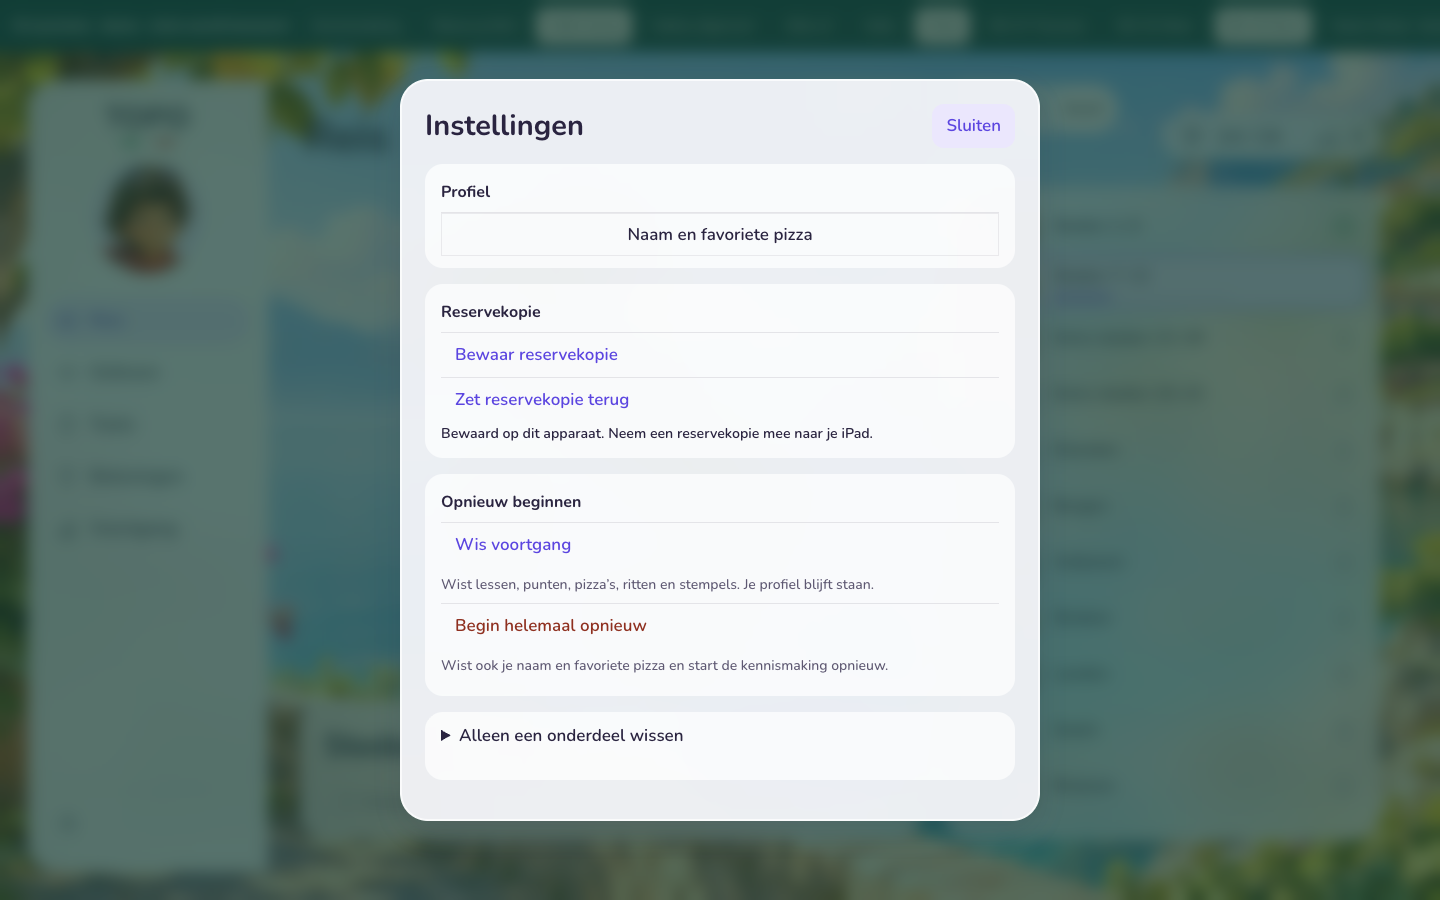
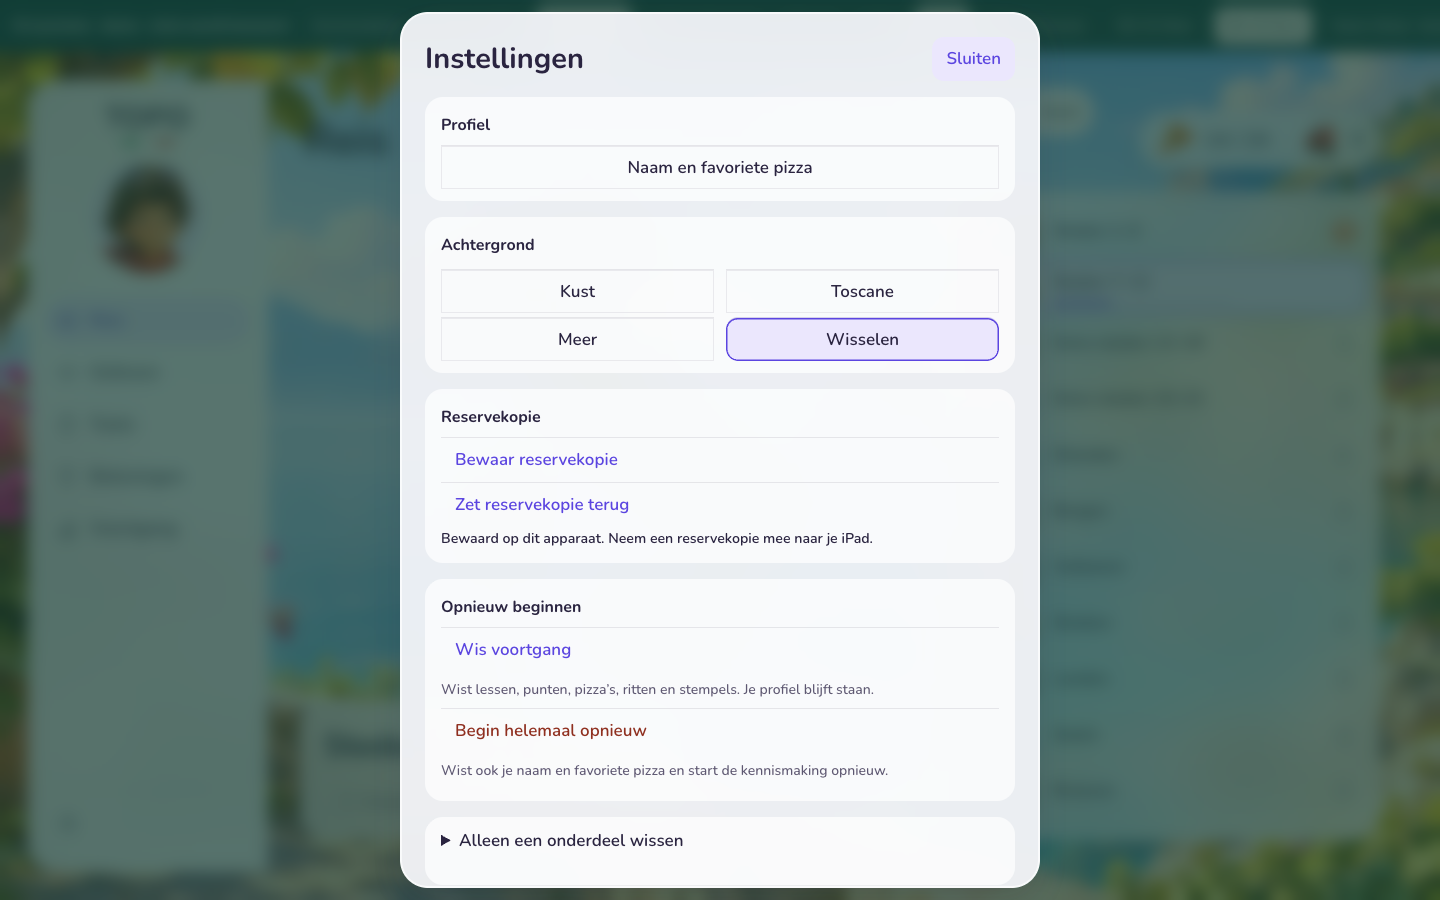
fix(v3): laat achtergronden kiezen en per hoofdstuk wisselen (ronde 3 punt 18)

diff --git a/scripts/v3/reis.js b/scripts/v3/reis.js
@@ -23,6 +23,12 @@
  // Reis map (fase B; chosen in the afwerking 10-11): "eiland" = Italy floating as land, neighbours as soft silhouettes,
  // the sea transparent on the wash. Variant (b), the map in a glass card, is gone.
  ui.kaart='eiland';
+ const BGKEY='topo-v3-background-v1',BACKDROPS={city1:'bg01',city2:'bg03',city3:'bg01',city4:'bg03',islands:'bg03',mountains:'bg02',volcanoes:'bg03',regions:'bg01',countries:'bg02',seas:'bg03',rivers:'bg02'};
+ try{ui.background=localStorage.getItem(BGKEY);}catch{}
+ const background=()=>{const chapter=$('#journeyScreen')?.classList.contains('hidden')?state.route?.active?.chapterId:ui.selected;
+  const key=ui.background==='auto'?(BACKDROPS[chapter]||'bg03'):ui.background||window.TOPO_V3_BG||'bg03';
+  const src=V3ART?.bg?.[key];if(src){document.body.style.setProperty('--v3-pano','url("'+src+'")');document.body.dataset.v3Background=key;}
+ };
  // Chapter scenes {mini, kop}: the 8 #75 scenes (assets/v3/scenes) and Roma, Venezia, Napoli (assets/v3/render);
  // a chapter without a scene keeps its chapter icon. Render assets: background, portrait, icons, VE-01.
  const scenes=window.TOPO_V3_SCENES||{},V3ART=window.TOPO_V3_ART||null;
@@ -309,7 +315,7 @@
   const c=m.chapters.find(x=>x.id===ui.selected);
   // Backdrop: BG-03 (BG-01/BG-02 in the preview), full-bleed behind the window; the V2 panorama only as fallback.
   const pano=V3ART?.bg?.[window.TOPO_V3_BG||'bg03']||V3ART?.bg?.bg03||$('.routeScene img')?.currentSrc||$('.routeScene img')?.src;
-  if(pano&&!document.body.style.getPropertyValue('--v3-pano'))document.body.style.setProperty('--v3-pano','url("'+pano+'")');
+  if(V3ART?.bg)background();else if(pano)document.body.style.setProperty('--v3-pano','url("'+pano+'")');
   root.dataset.view=views[ui.view]?ui.view:'reis';root.dataset.kaart=ui.kaart;
   markNav(root);
   renderTop(m);renderRows(m);renderPanel(m,c);renderSwitch();paintMap(c);renderRewards(m);
@@ -321,6 +327,6 @@
  const base=renderRouteHome;
  renderRouteHome=function(...a){const out=base.apply(this,a);try{render();chrome();}catch(e){console.error('V3 Reis',e);}return out;};
  document.body.classList.add('v3On');
- window.TOPO_V3={render,model,ui,makeSide,markNav,addView,cloneMap,fit,addIsland,icon,make,btn,pic,img,press,v2Card,v2Nav,STAGE,KIND,range,scenes,art:V3ART,nino,root};
+ window.TOPO_V3={background:{refresh:background,get:()=>ui.background||window.TOPO_V3_BG||'bg03',set:key=>{if(!['bg01','bg02','bg03','auto'].includes(key))return;ui.background=key;try{localStorage.setItem(BGKEY,key);}catch{}background();}},render,model,ui,makeSide,markNav,addView,cloneMap,fit,addIsland,icon,make,btn,pic,img,press,v2Card,v2Nav,STAGE,KIND,range,scenes,art:V3ART,nino,root};
  if(!$('#journeyScreen')?.classList.contains('hidden')){render();chrome();}
 })();

diff --git a/scripts/v3/shell.js b/scripts/v3/shell.js
@@ -59,7 +59,11 @@
  if(settings){
   settings.classList.add('v3','v3SettingsSheet');
   const profile=make('section','ninoSettingsGroup');profile.append(make('h3',null,'Profiel'),btn('Naam en favoriete pizza',()=>window.TopoProfile?.open(), 'v3Btn'));
-  settings.querySelector('.ninoSettingsActions')?.prepend(profile);
+  const backdrop=make('section','ninoSettingsGroup v3BackgroundChoices');backdrop.append(make('h3',null,'Achtergrond'));
+  const options=[['bg03','Kust'],['bg01','Toscane'],['bg02','Meer'],['auto','Wisselen']];
+  const mark=()=>backdrop.querySelectorAll('button').forEach(b=>b.setAttribute('aria-pressed',String(b.dataset.background===V.background.get())));
+  for(const [key,label] of options){const b=btn(label,()=>{V.background.set(key);mark();},'v3Btn');b.dataset.background=key;backdrop.append(b);}
+  mark();settings.querySelector('.ninoSettingsActions')?.prepend(profile,backdrop);
  }
  function openSettings(opener){settingsOrigin=opener||document.activeElement;$('.ninoSettingsButton')?.click();}
  $('dialog.ninoSettings')?.addEventListener('close',()=>{const o=settingsOrigin;settingsOrigin=null;if(o?.isConnected&&o.checkVisibility?.()!==false)requestAnimationFrame(()=>o.focus({preventScroll:true}));});

diff --git a/scripts/v3/ronde3.css b/scripts/v3/ronde3.css
@@ -95,3 +95,5 @@ body.v3On .vespaRide[data-phase=ride] .rideNino{left:5%;animation:v3RideOut 1.5s
 @keyframes v3Engine{from{transform:translateY(0) rotate(-.5deg)}to{transform:translateY(-2px) rotate(.5deg)}}
 @keyframes v3RideOut{from{transform:translateX(0)}to{transform:translateX(300%)}}
 @media(prefers-reduced-motion:reduce){body.v3On .vespaRide .rideNino{animation:none!important;transition:none!important}body.v3On .vespaRide .rideArrival{animation:v3Ready .16s ease-out!important}}
+
+.v3SettingsSheet .v3BackgroundChoices{grid-template-columns:1fr 1fr;gap:4px 12px}.v3BackgroundChoices h3{grid-column:1/-1}.v3SettingsSheet [data-background][aria-pressed=true]{background:var(--v3-accent-soft);box-shadow:inset 0 0 0 1.5px var(--v3-accent);border-radius:12px}

diff --git a/scripts/v3/les.js b/scripts/v3/les.js
@@ -40,6 +40,7 @@
  bar.append(group,end);layout.before(bar);
 
  function model(){
+  V.background?.refresh();
   if(state.mode==='exam'){const total=state.examTotal|0;return {type:'exam',kind:'exam',title:'Toets',total,n:Math.min(total,(state.examAnswered|0)+(state.answered?0:1)),done:!!state.examEnded,paused:false,q:state.questionMode};}
   if(FREE.includes(state.mode)){const g=$('#groupSelect');return {type:'free',kind:state.mode==='learn'?'discover':state.mode,title:g?.selectedOptions[0]?.textContent.replace(/ · .*$/,'').trim()||'',group:g?.value,total:0,n:0,done:false,paused:false,q:state.mode==='learn'?'discover':state.questionMode};}
   const s=state.route?.active;if(state.mode!=='route'||!s)return null;

diff --git a/scripts/qa-v3-ronde3.py b/scripts/qa-v3-ronde3.py
@@ -20,6 +20,19 @@ async def check(p,n,touch):
   assert (await p.locator('.v3Switch button').first.bounding_box())['height']>=44
   await act(p,'.v3MapTools [data-relief=true]',touch)
   assert await p.locator('.v3MapStage .v3Map').get_attribute('data-relief')=='on'
+ if n==18:
+  await act(p,'[data-nav=instellingen]',touch)
+  for key in ['bg01','bg02','bg03','auto']:
+   await act(p,f'[data-background={key}]',touch)
+   assert await p.locator(f'[data-background={key}]').get_attribute('aria-pressed')=='true'
+   assert await p.evaluate('TOPO_V3.background.get()')==key
+  assert await p.evaluate('localStorage.getItem("topo-v3-background-v1")')=='auto'
+  await p.keyboard.press('Escape')
+  await act(p,'.v3Row[data-chapter=city1]',touch);first=await p.locator('body').get_attribute('data-v3-background')
+  await act(p,'.v3Row[data-chapter=city2]',touch);second=await p.locator('body').get_attribute('data-v3-background')
+  assert first!=second
+  await act(p,'[data-nav=instellingen]',touch)
+  return 'instellingen'
  if n==17:
   await p.evaluate('celebrateTrip("Rome","Florence")');await p.wait_for_timeout(100)
   assert await p.locator('.rideNino').evaluate('n=>getComputedStyle(n).animationName')=='v3Engine'
